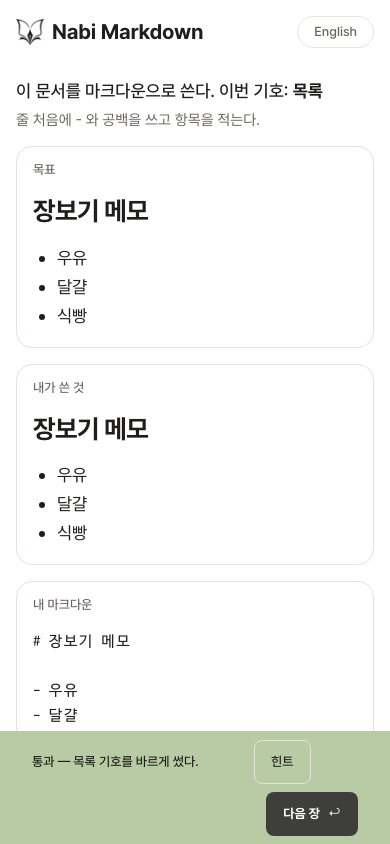
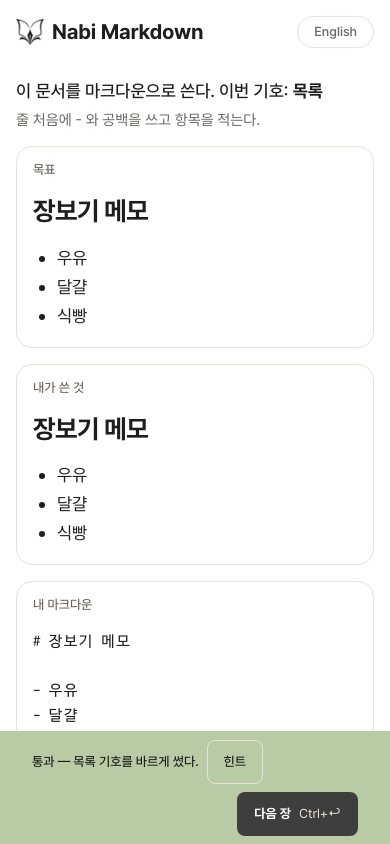
fix(variants): Codex P2 셋 반영 — 판정 바를 칸 폭 기준 container query로 접기, 통과 뒤 단축키가 다음 장으로, 다크 세트는 시안 화면에만
- variants.css: .rd-bar를 inline-size 컨테이너로 두고 600px 이하에서 문구 한 줄 + 단추 줄 바꿈(768px 격자의 시안 C 가운데 칸 포함)
- parts.tsx: 통과 상태에서 에디터 onCheck가 sheet.next를 부르고, '다음 장' 라벨이 실제 단축키(⌘↩/Ctrl↩)를 보여준다
- tokens.css: prefers-color-scheme: dark 세트를 :root[data-redesign]에만 — 옛 global.css의 판정 띠 하드코딩 바탕과 충돌 방지
- e2e: 두 번 실패 상태를 768 폭에도, 단추가 바 안에 머무는지, 통과 뒤 Control+Enter가 다음 장으로 가는지 단언. 통과 캡처 재생성

Changed region(s): [[0.5846, 0.8626, 0.8308, 1.0]]

diff --git a/tests/e2e/capture-redesign-variants.spec.ts b/tests/e2e/capture-redesign-variants.spec.ts
@@ -207,7 +207,7 @@ test.afterAll(() => {
 // 두 번 실패하면 판정 바에 "정답 보기"가 더 생긴다(계획서 §4.1). 좁은 폭에서
 // 단추 셋과 확인이 한 줄에 몰려 문구를 누르거나 넘치지 않는지 본다 — 시안 B는
 // 건너뛰기까지 있어 가장 붐빈다(Codex 리뷰 P2).
-for (const width of [390, 320] as const) {
+for (const width of [768, 390, 320] as const) {
   for (const variant of VARIANTS) {
     test(`시안 ${variant.toUpperCase()} · ${width} · 두 번 실패 뒤 정답 보기`, async ({
       page,
@@ -229,13 +229,17 @@ for (const width of [390, 320] as const) {
       ])
       expect(barBox).not.toBeNull()
       expect(statusBox).not.toBeNull()
-      // 문구는 바 폭의 대부분을 쓰고(한 글자 폭으로 눌리지 않는다), 바는
-      // 화면의 4분의 1을 넘지 않는다.
-      expect(statusBox!.width).toBeGreaterThan(barBox!.width * 0.8)
+      // 문구는 한 글자 폭으로 눌리지 않고(폭 160px 이상, 세 줄 이하) 바는
+      // 화면의 4분의 1을 넘지 않으며, 단추는 바 안에 머문다(시안 C의 768px
+      // 가운데 칸처럼 좁은 열에서 옆 칸으로 흘러넘치지 않는다).
+      expect(statusBox!.width).toBeGreaterThanOrEqual(160)
+      expect(statusBox!.height).toBeLessThanOrEqual(60)
       expect(barBox!.height).toBeLessThan(viewportHeight / 4)
-      for (const name of ["힌트", "정답 보기"]) {
+      const barRight = barBox!.x + barBox!.width + 1
+      for (const name of ["힌트", "정답 보기", /^확인/]) {
         const box = await page.getByRole("button", { name }).boundingBox()
-        expect(box!.x + box!.width, name).toBeLessThanOrEqual(width)
+        expect(box!.x + box!.width, String(name)).toBeLessThanOrEqual(barRight)
+        expect(box!.x, String(name)).toBeGreaterThanOrEqual(barBox!.x - 1)
       }
 
       await answerButton.click()
@@ -245,6 +249,26 @@ for (const width of [390, 320] as const) {
     })
   }
 }
+
+// 통과한 뒤에는 에디터 안의 같은 단축키가 "다음 장"으로 이어진다(Codex 리뷰 P2).
+test("통과 뒤 에디터 단축키가 다음 장으로 넘어간다", async ({ page }) => {
+  trackConsole(page)
+  await page.setViewportSize({ width: 1280, height: 800 })
+  await openVariant(page, "a")
+  await typeDraft(page, GROCERY_PASS)
+  await page.keyboard.press("Control+Enter")
+  await expect(page.getByTestId("rd-bar")).toHaveAttribute("data-tone", "pass")
+  await expect(page.getByRole("button", { name: /^다음 장/ })).toHaveAttribute(
+    "aria-keyshortcuts",
+    /Control\+Enter/,
+  )
+  await page.keyboard.press("Control+Enter")
+  await expect(page.getByTestId("rd-target").locator("h1")).toHaveText(
+    "11월 기획 회의",
+  )
+  await expect(page.getByTestId("rd-bar")).toHaveAttribute("data-tone", "idle")
+  expect(consoleErrors.get(page)).toEqual([])
+})
 
 // 허브 제품 페이지(https://onsoonlabs.com/topki/) 1280 캡처를 시안 A·B·C의
 // 1280 '처음' 캡처 옆에 둔 비교 이미지. 바깥 네트워크를 쓰므로 캡처 모드에서만.

diff --git a/src/variants/variants.css b/src/variants/variants.css
@@ -399,6 +399,7 @@ html[data-redesign] #root {
 
 /* ===== 판정 바 — 왼쪽 힌트, 가운데 상태 문구, 오른쪽 확인 ===== */
 .rd-bar {
+  container-type: inline-size;
   margin-top: var(--s2);
   border-radius: var(--r-sm);
   transition:
@@ -449,6 +450,38 @@ html[data-redesign] #root {
 .rd-bar--pass .rd-bar__status {
   color: var(--ink);
   font-weight: var(--w-label);
+}
+
+/* 바가 놓인 칸이 좁으면(휴대폰 전체 폭, 시안 C의 가운데 칸 등) 상태 문구는 자기
+   줄을 차지하고 단추들은 그 아래 한 줄에서 줄 바꿈된다. 두 번 실패해 "정답 보기"가
+   생기거나 320px 폭이어도 단추가 넘치지 않고 문구가 눌리지 않는다. viewport가
+   아니라 바의 실제 폭을 보므로 768px 데스크톱 격자에서도 성립한다. 문구가 비면
+   단추 줄만 남는다. */
+@container (max-width: 600px) {
+  .rd-bar__inner {
+    flex-wrap: wrap;
+    row-gap: var(--s1);
+    justify-content: space-between;
+  }
+
+  .rd-bar__status {
+    order: -1;
+    flex: 1 1 100%;
+    text-align: left;
+  }
+
+  .rd-bar__status:empty {
+    display: none;
+  }
+
+  .rd-bar__left {
+    flex: 1 1 auto;
+    flex-wrap: wrap;
+  }
+
+  .rd-bar__inner > .rd-btn--primary {
+    margin-left: auto;
+  }
 }
 
 /* 화면 아래 고정 — 시안 B는 항상, A·C는 휴대폰에서만 */
@@ -609,40 +642,8 @@ html[data-redesign] #root {
     gap: var(--s1);
   }
 
-  .rd--a .rd-bar__inner {
-    justify-content: space-between;
-  }
-
-  .rd--a .rd-bar__status {
-    flex: 1 1 auto;
-    text-align: left;
-  }
-
-  /* 휴대폰: 상태 문구는 자기 줄을 차지하고 단추들은 그 아래 한 줄에 놓인다.
-     두 번 실패해 "정답 보기"가 생기거나 320px 폭이어도 단추가 줄 바꿈으로
-     들어가고 문구가 눌리지 않는다. 문구가 비면 단추 줄만 남는다. */
-  .rd-bar__inner {
-    flex-wrap: wrap;
-    row-gap: var(--s1);
-  }
-
   .rd-bar__status {
-    order: -1;
-    flex: 1 1 100%;
     font-size: var(--t-xs);
-  }
-
-  .rd-bar__status:empty {
-    display: none;
-  }
-
-  .rd-bar__left {
-    flex: 1 1 auto;
-    flex-wrap: wrap;
-  }
-
-  .rd-bar__inner > .rd-btn--primary {
-    margin-left: auto;
   }
 
   .rd-btn {

diff --git a/src/variants/parts.tsx b/src/variants/parts.tsx
@@ -136,7 +136,8 @@ export function EditorPanel({ sheet }: { sheet: PracticeSheet }) {
         flaggedLines={flaggedLinesOf(sheet.verdict)}
         label="내 마크다운"
         onChange={sheet.changeDraft}
-        onCheck={sheet.check}
+        // 통과한 뒤에는 같은 단축키가 판정 바의 "다음 장"과 같은 일을 한다.
+        onCheck={sheet.verdict?.kind === "pass" ? sheet.next : sheet.check}
         placeholder="여기에 마크다운을 쓴다"
         value={sheet.draft}
       />
@@ -209,11 +210,12 @@ export function VerdictBar({
         </p>
         {passed ? (
           <button
+            aria-keyshortcuts={shortcut.ariaKeyShortcuts}
             className="rd-btn rd-btn--primary"
             onClick={sheet.next}
             type="button"
           >
-            다음 장 <kbd>↩</kbd>
+            다음 장 <kbd aria-hidden="true">{keyLabel}</kbd>
           </button>
         ) : (
           <button

diff --git a/src/styles/tokens.css b/src/styles/tokens.css
@@ -38,7 +38,10 @@
 }
 
 :root {
-  color-scheme: light dark;
+  /* 다크 세트는 아래에서 재설계 화면(html[data-redesign])에만 건다. 옛 global.css의
+     판정 띠가 옅은 바탕색을 하드코딩하고 있어 전역으로 걸면 옛 화면의 글자가
+     흰 바탕에 흰 글자가 된다. WS2가 옛 화면을 지우면 :root 전체로 넓힌다. */
+  color-scheme: light;
 
   /* --- 지면 — 액센트가 아닌 중성색 ------------------------- */
   --bg: #ffffff;
@@ -113,7 +116,8 @@
 }
 
 @media (prefers-color-scheme: dark) {
-  :root {
+  :root[data-redesign] {
+    color-scheme: dark;
     --bg: #1a1a1c;
     --ink: #edeae6;
     --ink-soft: #a49f98;
